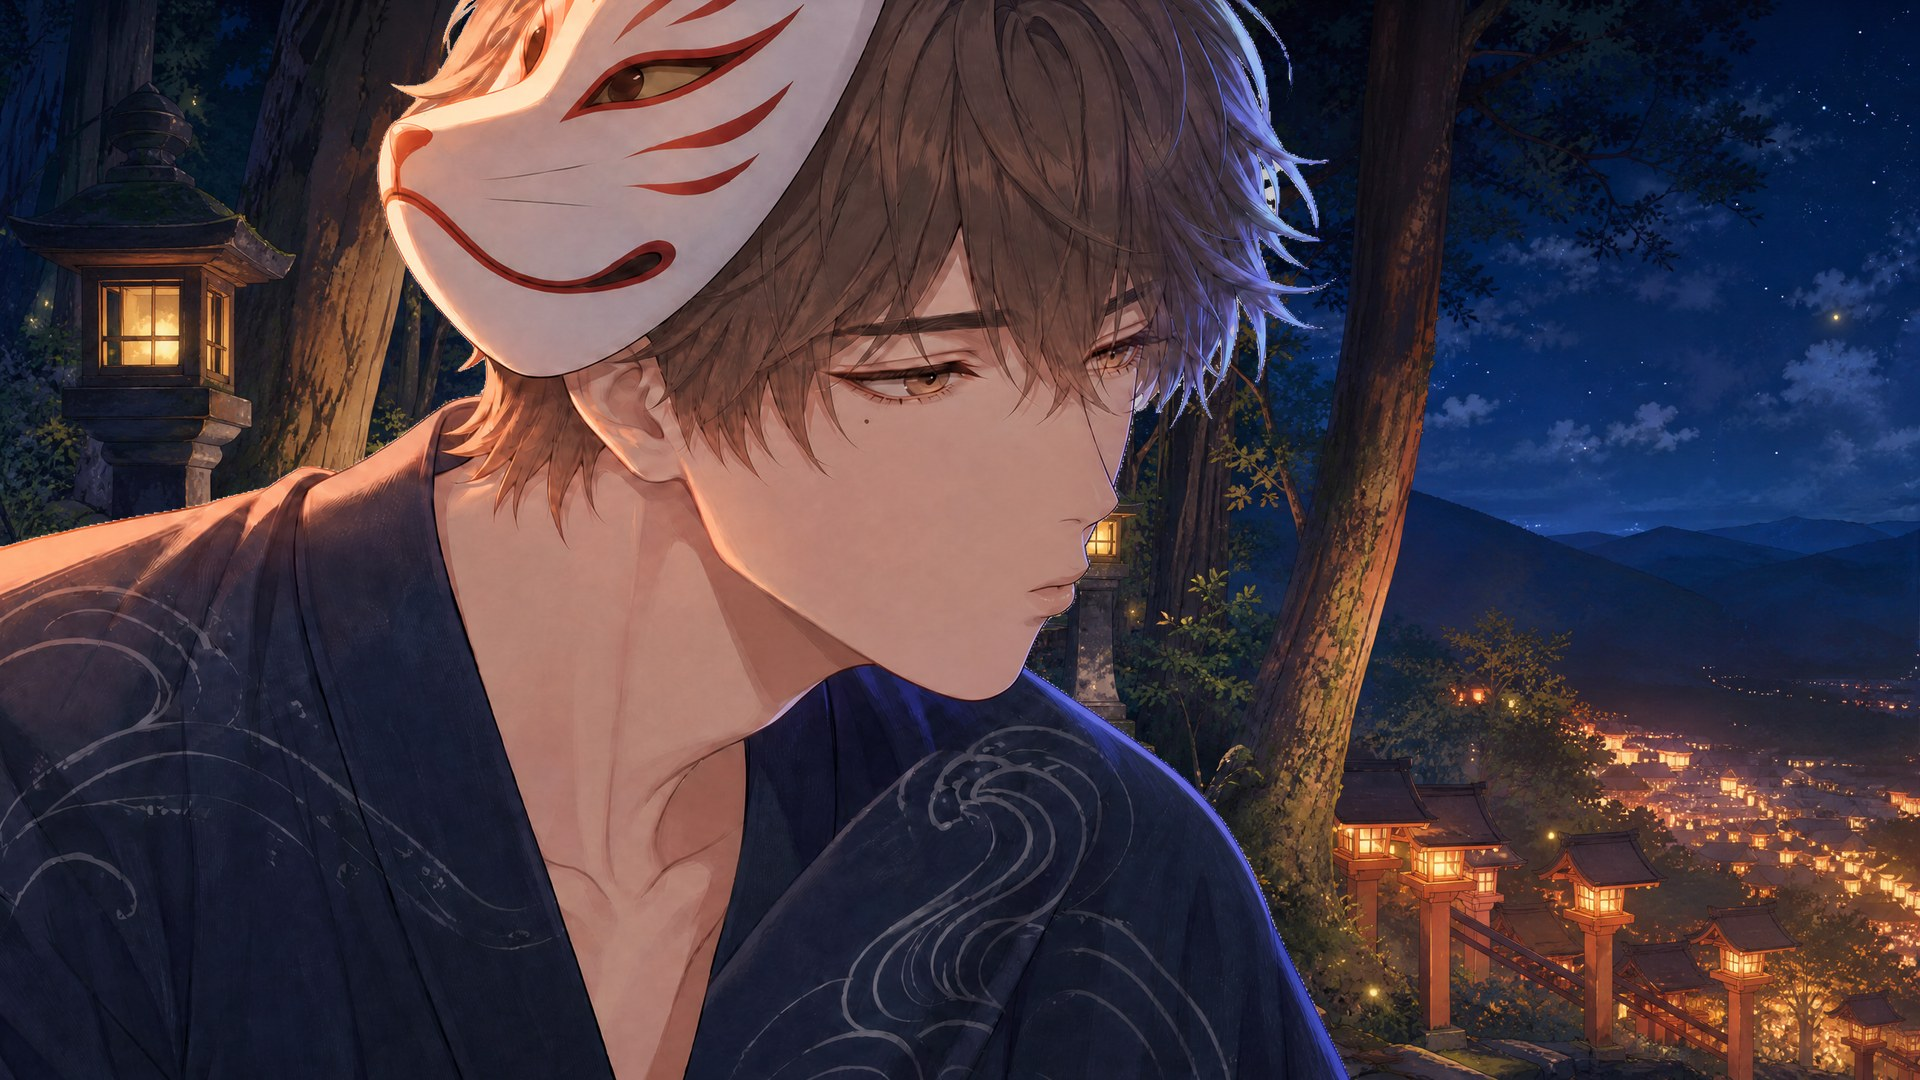
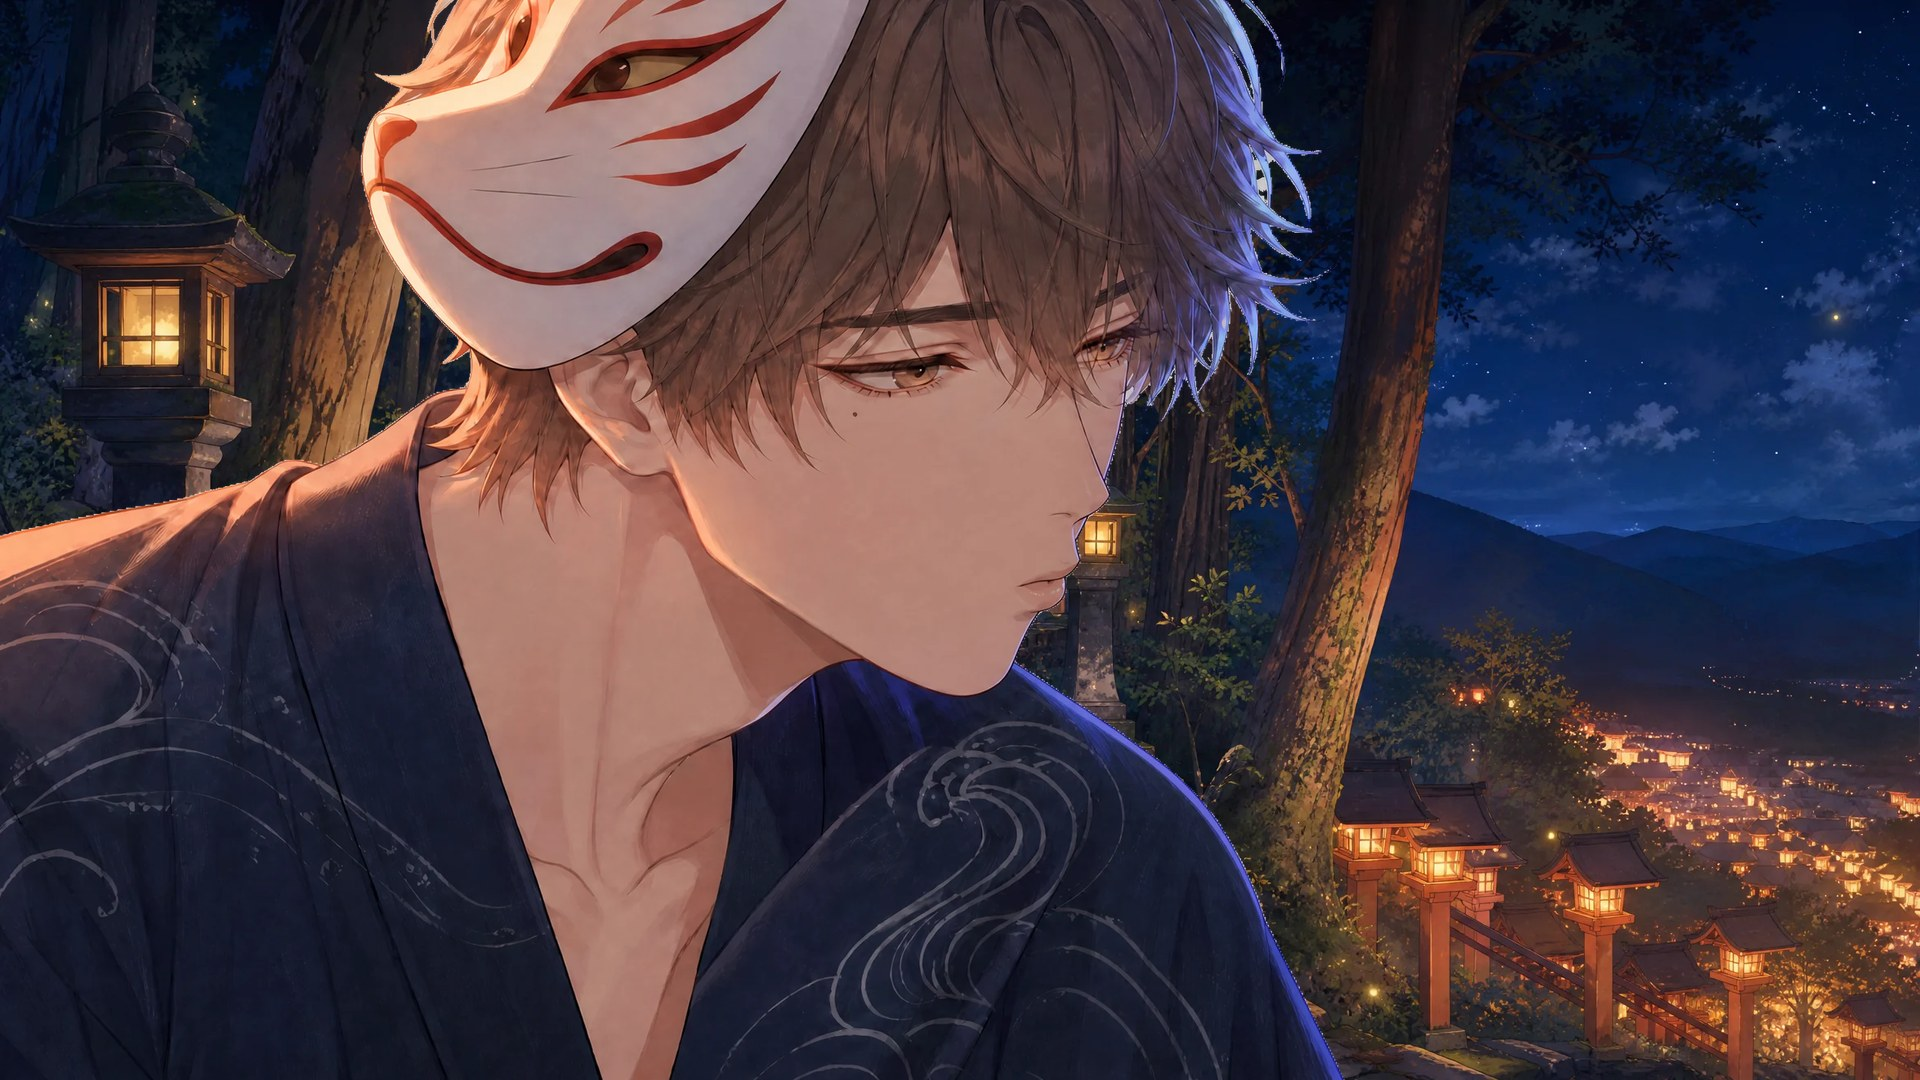
Demo30 Saku: breath_L blink redrawn (Seedance; both eyes fully closed); breath_L / whisper_R placed so cut edges are ≥ 1.5 % outside the frame

diff --git a/demos/for-women/Demo30_SakuFestival/media/layers.js b/demos/for-women/Demo30_SakuFestival/media/layers.js
@@ -258,9 +258,9 @@ window.MOHEAT_LAYERS = {
     "src": "art/char_breath.webp?v=4beebdd7",
     "w": 1700,
     "h": 1361,
-    "x": 0.35,
+    "x": 0.343,
     "y": 1.01,
-    "height": 1.02,
+    "height": 1.03,
     "box": [
      0,
      0,
@@ -270,12 +270,12 @@ window.MOHEAT_LAYERS = {
    },
    "patches": [
     {
-     "src": "art/breath_eyes.webp?v=b3ef67a7",
+     "src": "art/breath_eyes.webp?v=435fbc46",
      "rect": [
-      988,
-      395,
-      489,
-      163
+      1004,
+      410,
+      460,
+      129
      ],
      "kind": "eyes"
     },
@@ -341,7 +341,7 @@ window.MOHEAT_LAYERS = {
     "h": 956,
     "x": 0.5,
     "y": 1.01,
-    "height": 1.02,
+    "height": 1.035,
     "box": [
      0,
      0,
